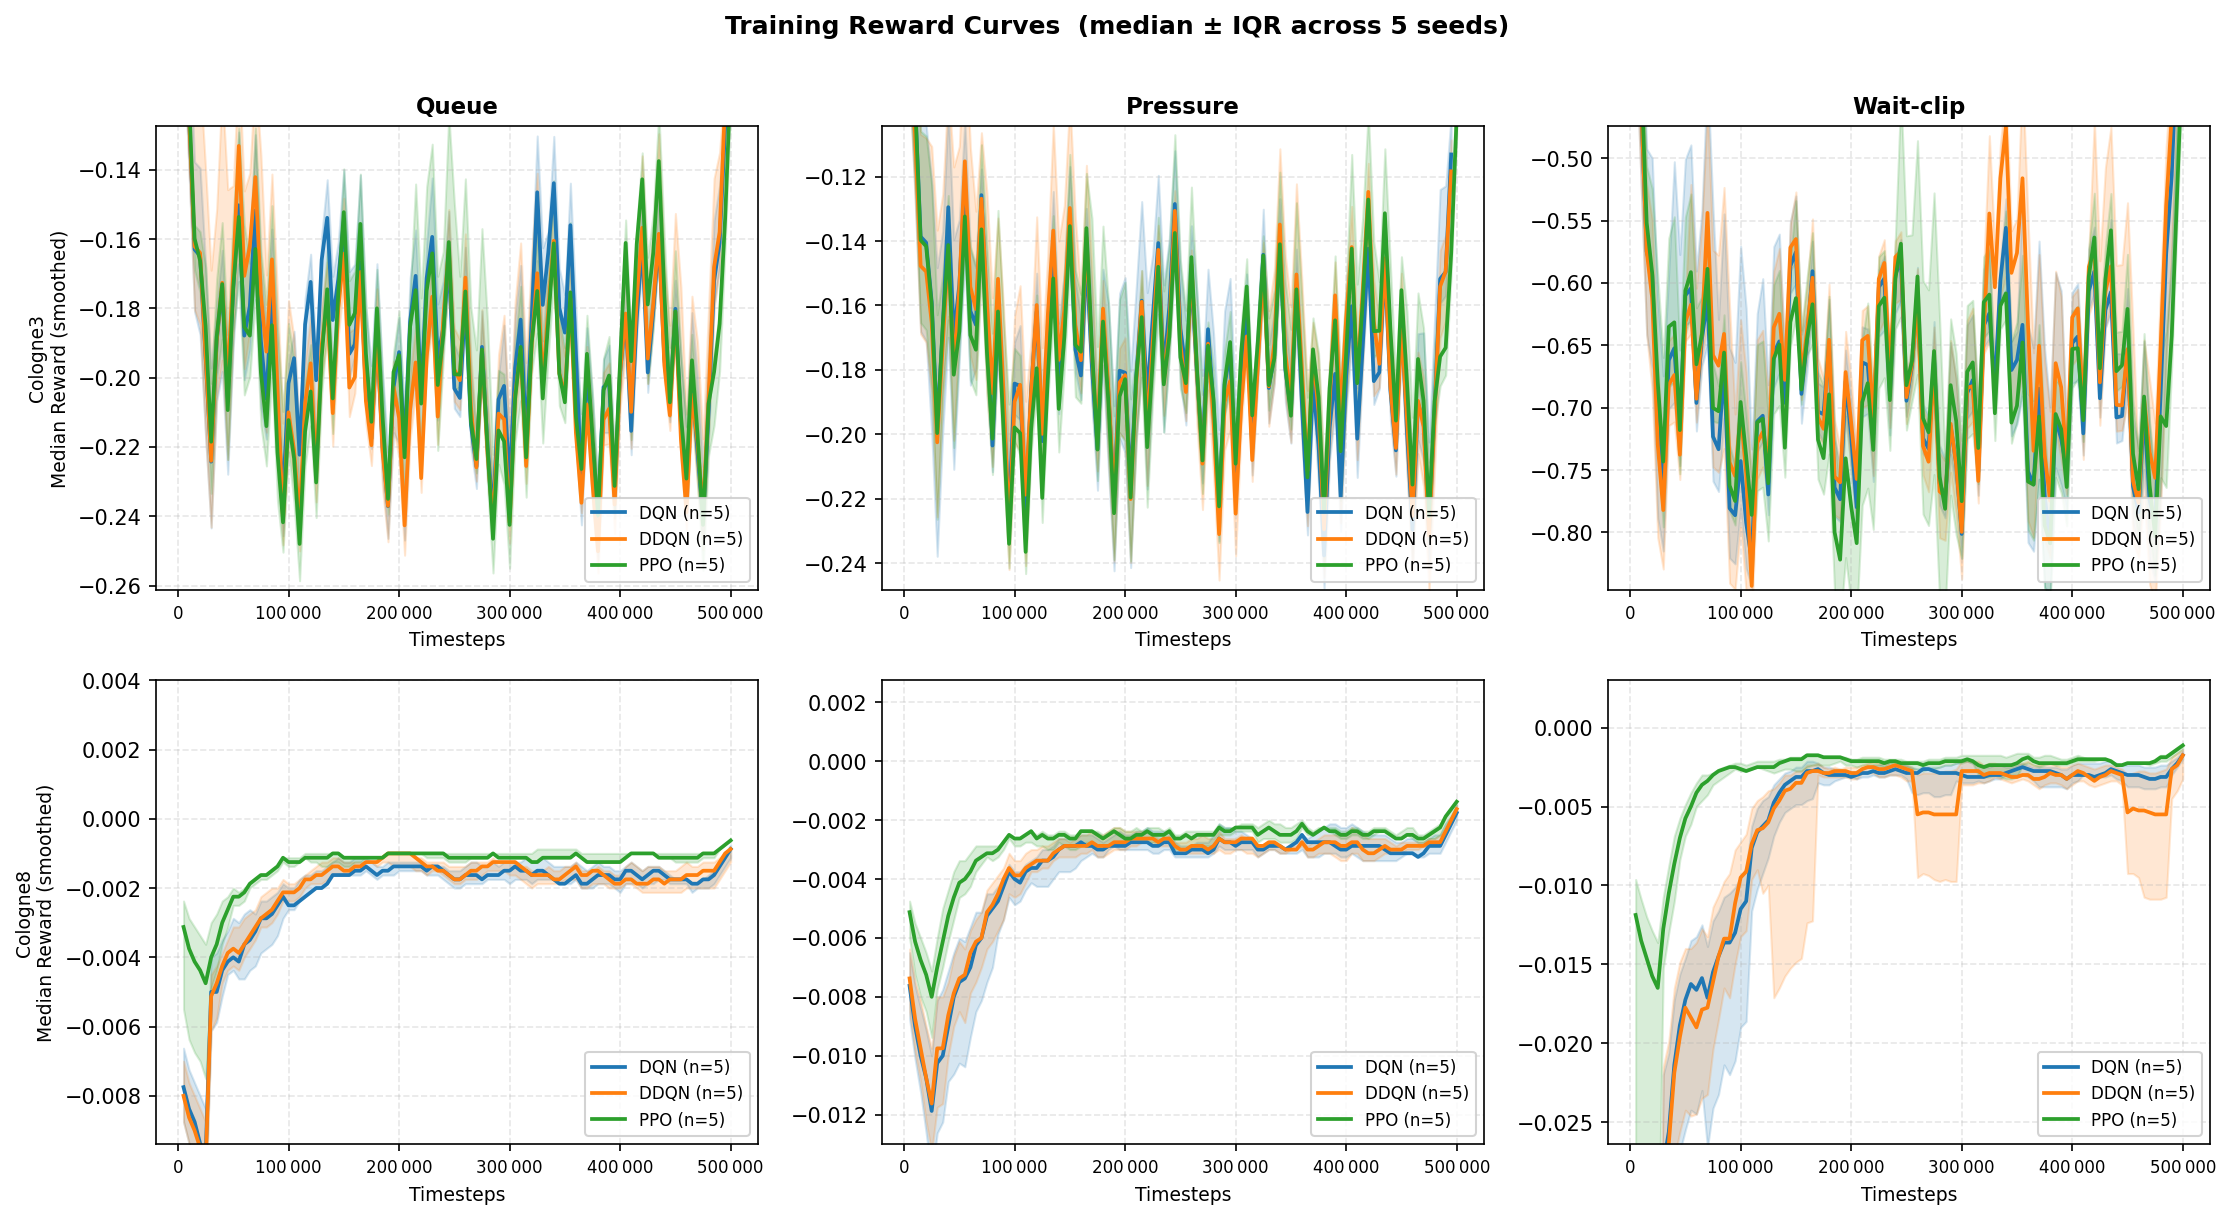
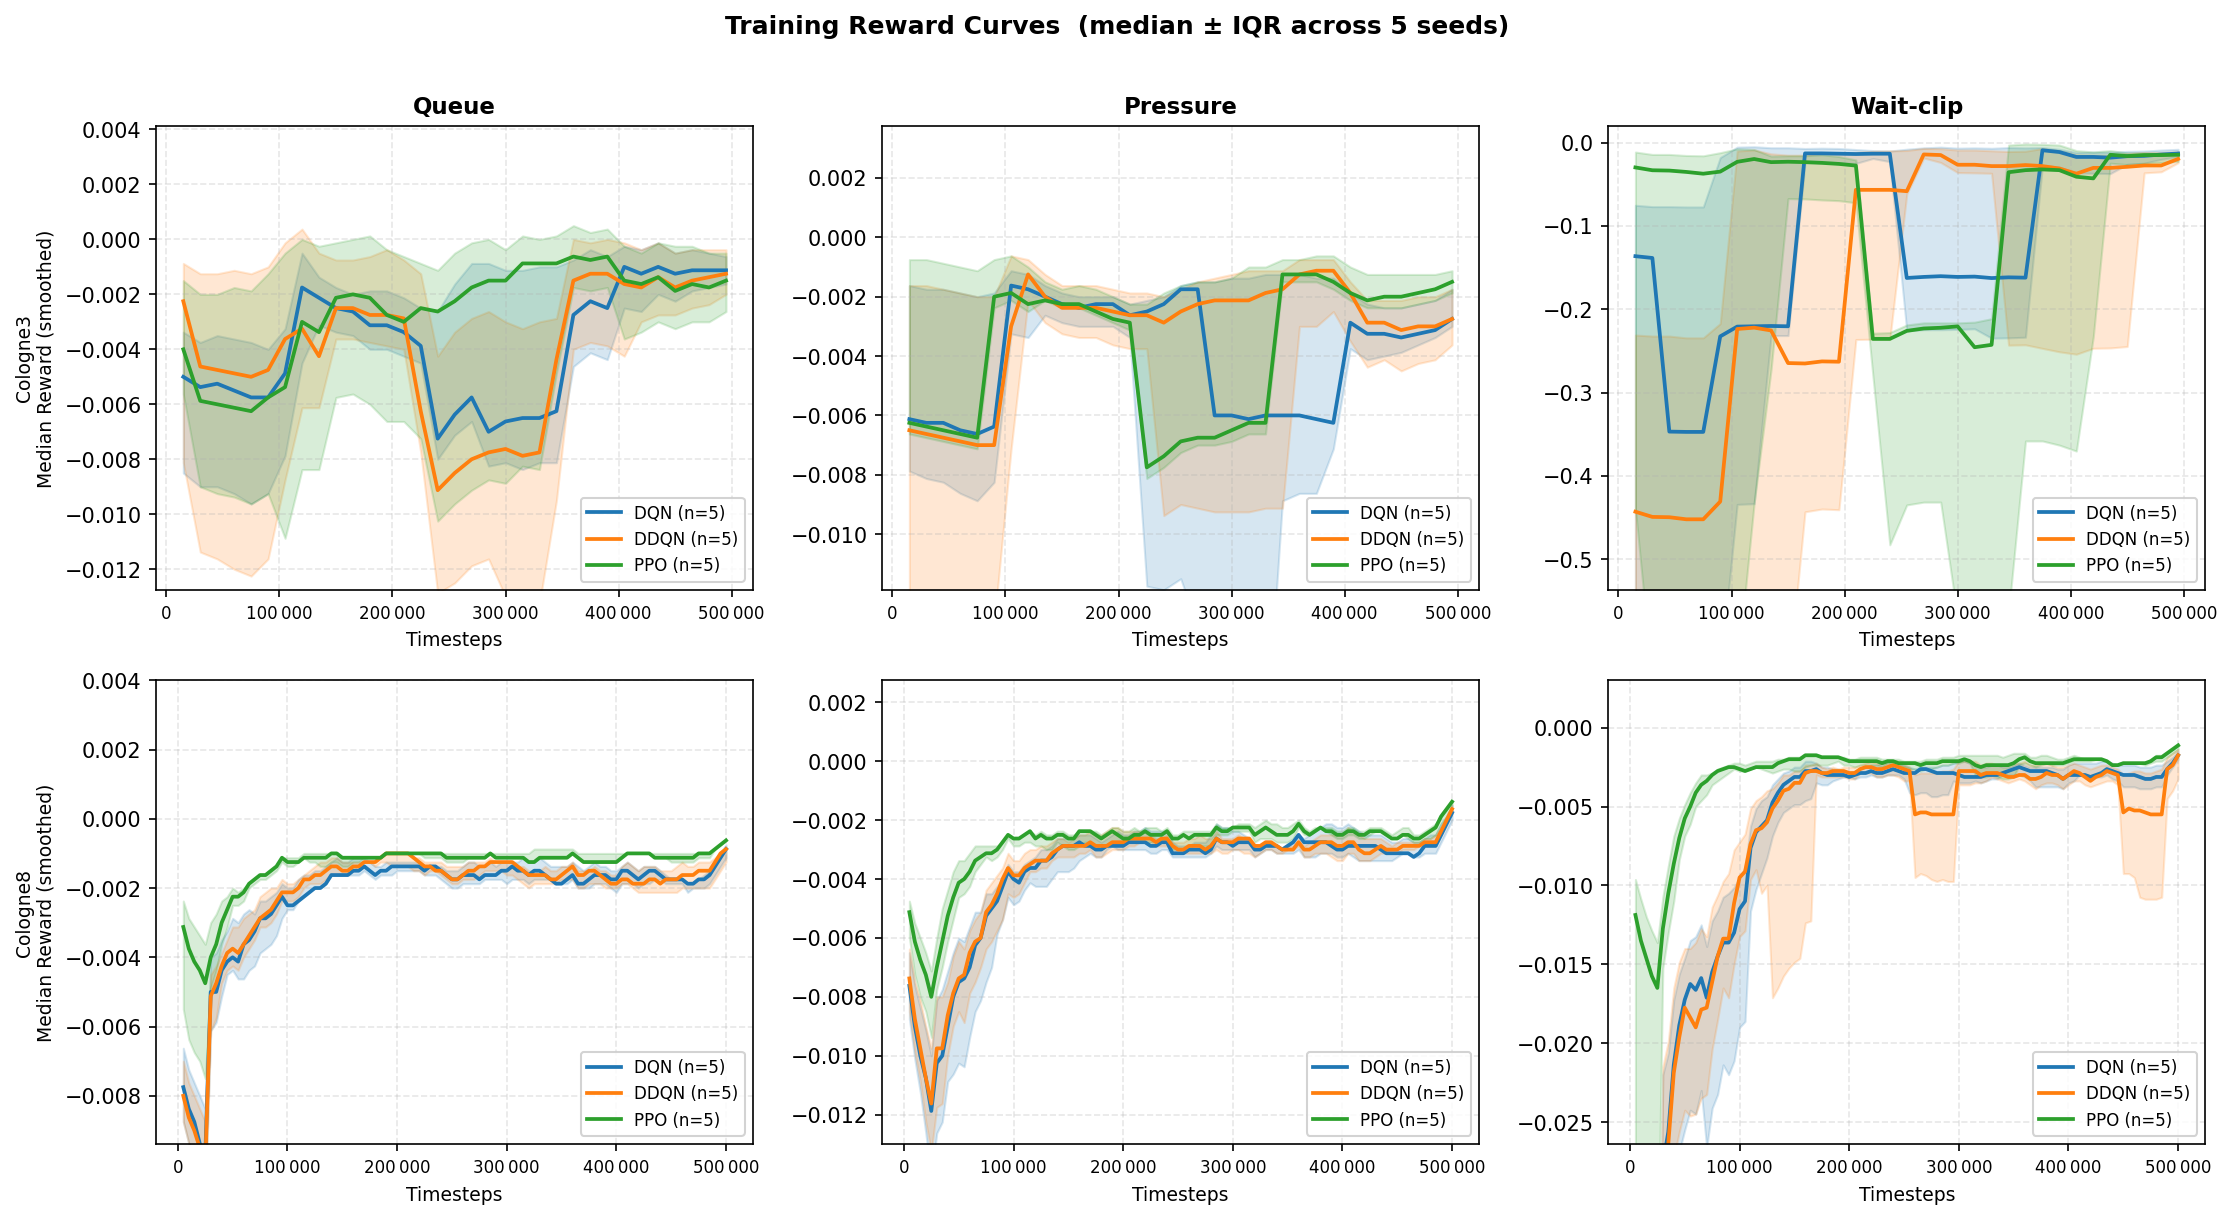
merge C3 real

diff --git a/plot_learning_curves.py b/plot_learning_curves.py
@@ -169,7 +169,7 @@ def plot_panel(ax, log_dir: Path, reward: str, smooth_w: int,
 
 def parse_args():
     p = argparse.ArgumentParser()
-    p.add_argument("--c3_logs", default="./logs_cologne3_direct")
+    p.add_argument("--c3_logs", default="./logs_cologne3_real_all")
     p.add_argument("--c8_logs", default="./logs_cologne8_direct")
     p.add_argument("--smooth",  type=int, default=8)
     p.add_argument("--out",     default="./figures")
